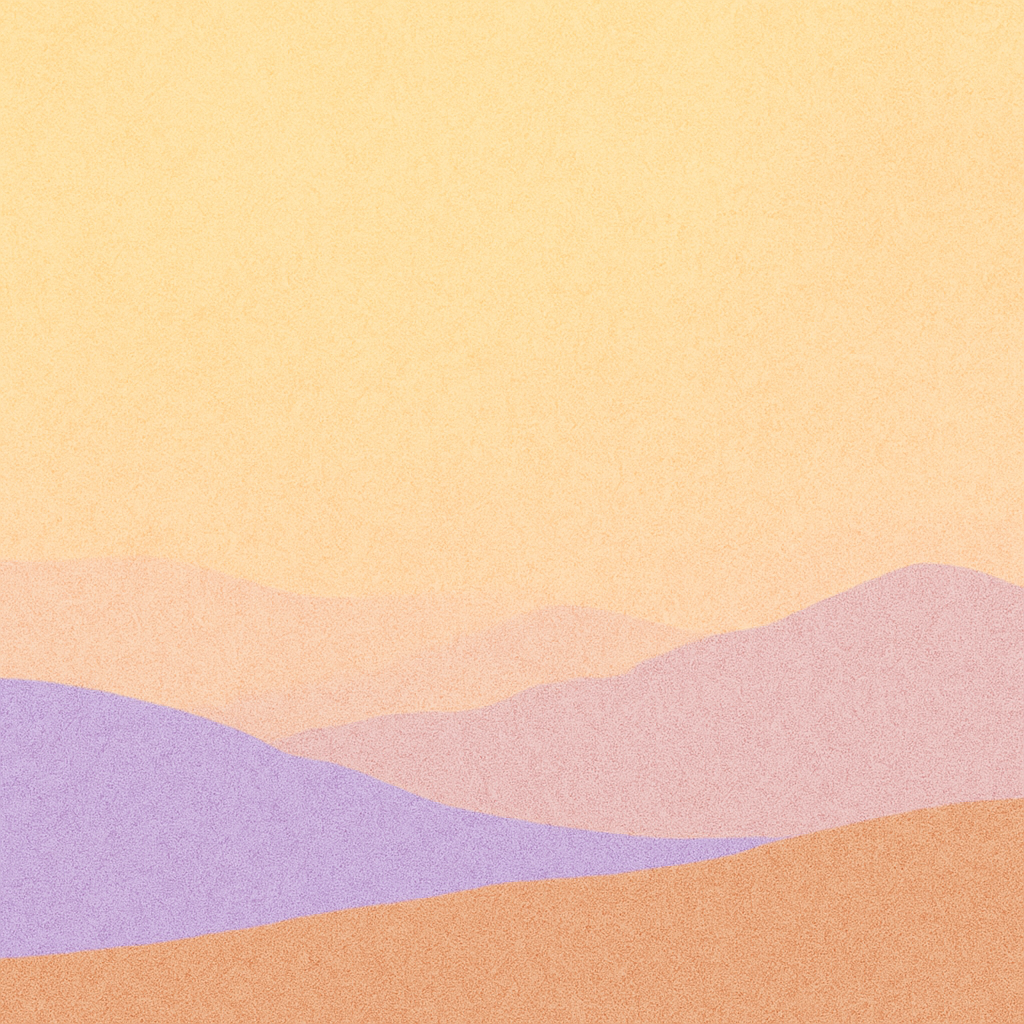
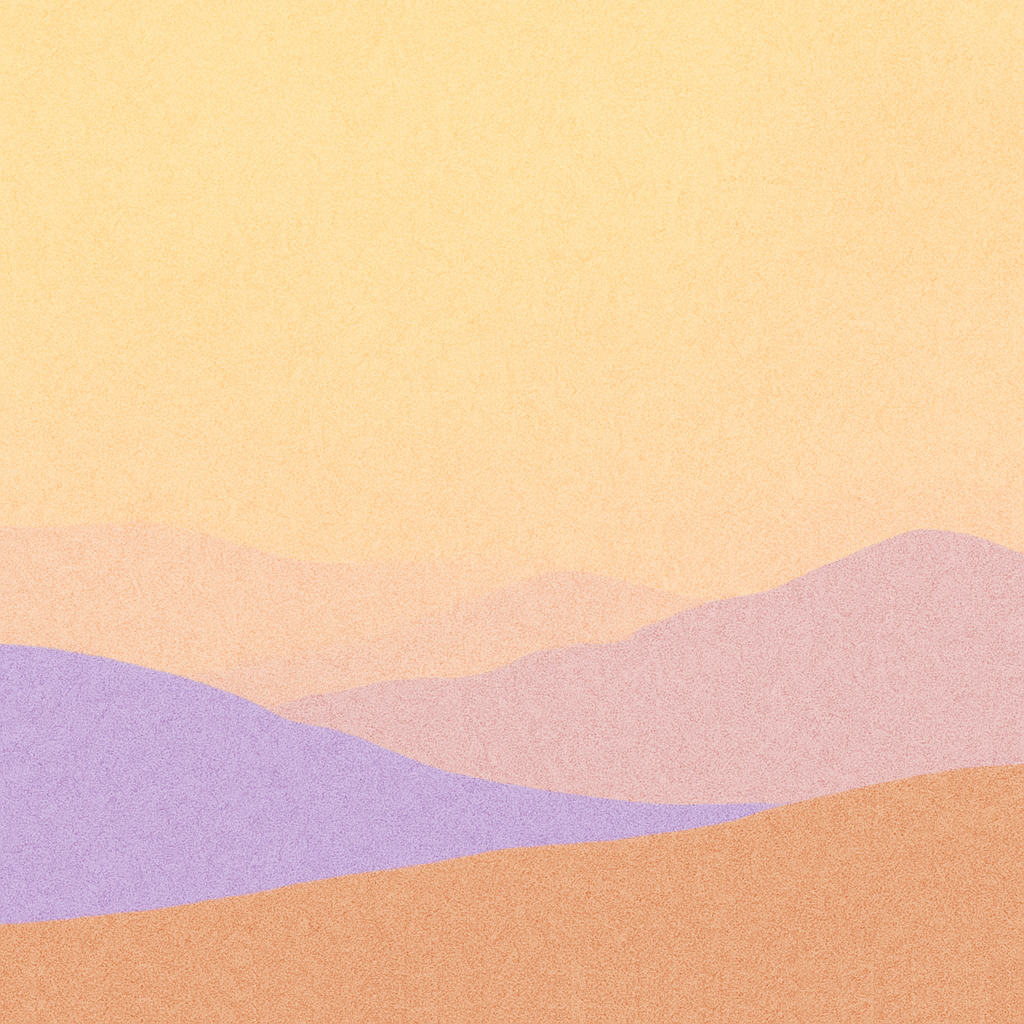
feat: mise à jour des images de background avec couleurs vives et amélioration des styles - Remplacement des images grid par des backgrounds colorés (jaune, violet, rose, orange) - Optimisation de la taille et positionnement des images internes (92% de taille) - Suppression de l'arrondi sur coins ba

Changed region(s): [[0.0, 0.5, 1.0, 0.9688], [0.7188, 0.6875, 0.75, 0.7188], [0.5312, 0.5625, 0.5625, 0.5938]]

diff --git a/src/components/features-one.tsx b/src/components/features-one.tsx
@@ -20,31 +20,123 @@ export default function Features() {
                         </div>
                     </div>
 
+                    <div className="mt-16">
+                        <div className="text-right">
+                            <h2 className="text-foreground text-4xl font-semibold">Every call structured your way — ready to act</h2>
+                            <p className="text-muted-foreground mb-12 mt-4 text-balance text-lg">Slice breaks each call transcription into building blocks you define—so you can review, validate, and move faster.</p>
+                        </div>
+                        <div className="bg-foreground/5 rounded-3xl p-6">
+                            <Image
+                                src="/images/tabless.png"
+                                alt="Task management interface"
+                                width={800}
+                                height={400}
+                                className="w-full h-auto rounded-xl"
+                            />
+                        </div>
+                    </div>
+
+                    <div className="mt-16">
+                        <h2 className="text-foreground text-4xl font-semibold">Every call structured your way — ready to act</h2>
+                        <p className="text-muted-foreground mb-12 mt-4 text-balance text-lg">Slice breaks each call transcription into building blocks you define—so you can review, validate, and move faster.</p>
+                        <div className="bg-foreground/5 rounded-3xl p-6">
+                            <Image
+                                src="/images/tabless.png"
+                                alt="Task management interface"
+                                width={800}
+                                height={400}
+                                className="w-full h-auto rounded-xl"
+                            />
+                        </div>
+                    </div>
+
                     <div className="border-foreground/10 relative mt-16 grid gap-12 border-b pb-12 [--radius:1rem] md:grid-cols-2">
                         <div>
                             <h3 className="text-foreground text-xl font-semibold">Find the right answer before even asking</h3>
                             <p className="text-muted-foreground my-4 text-lg">Slice brings you the most relevant docs and insights to answer clients&apos; questions.</p>
-                            <div className="aspect-video overflow-hidden bg-foreground/5 rounded-xl p-4">
+                            <div className="aspect-video overflow-hidden rounded-xl p-4 relative">
                                 <Image
-                                    src="/images/resourcess.png"
-                                    alt="Marketing campaigns interface"
-                                    width={400}
-                                    height={225}
-                                    className="w-full h-full object-cover rounded-lg"
+                                    src="/images/grid/jaune.png"
+                                    alt="Background interface"
+                                    width={600}
+                                    height={337}
+                                    className="w-full h-full object-cover absolute inset-0"
                                 />
+                                <div className="absolute bottom-0 right-0 w-11/12 h-11/12 z-10">
+                                    <Image
+                                        src="/images/resourcess.png"
+                                        alt="Marketing campaigns interface"
+                                        width={400}
+                                        height={225}
+                                        className="w-full h-full object-cover rounded-tl-lg rounded-br-none border-l border-t border-gray-300/30 shadow-lg opacity-95"
+                                    />
+                                </div>
                             </div>
                         </div>
                         <div>
                             <h3 className="text-foreground text-xl font-semibold">Assign and track internal work</h3>
                             <p className="text-muted-foreground my-4 text-lg">Slice sends the messages and follows up with internal teams, so you don&apos;t have to.</p>
-                            <div className="aspect-video overflow-hidden bg-foreground/5 rounded-xl p-4">
+                            <div className="aspect-video overflow-hidden rounded-xl p-4 relative">
                                 <Image
-                                    src="/images/steps.png"
-                                    alt="AI meeting scheduler interface"
-                                    width={400}
-                                    height={225}
-                                    className="w-full h-full object-cover rounded-lg"
+                                    src="/images/grid/violet.png"
+                                    alt="Background interface"
+                                    width={600}
+                                    height={337}
+                                    className="w-full h-full object-cover absolute inset-0"
                                 />
+                                <div className="absolute bottom-0 right-0 w-11/12 h-11/12 z-10">
+                                    <Image
+                                        src="/images/steps.png"
+                                        alt="AI meeting scheduler interface"
+                                        width={400}
+                                        height={225}
+                                        className="w-full h-full object-cover rounded-tl-lg rounded-br-none border-l border-t border-gray-300/30 shadow-lg opacity-95"
+                                    />
+                                </div>
+                            </div>
+                        </div>
+                        <div>
+                            <h3 className="text-foreground text-xl font-semibold">Find the right answer before even asking</h3>
+                            <p className="text-muted-foreground my-4 text-lg">Slice brings you the most relevant docs and insights to answer clients&apos; questions.</p>
+                            <div className="aspect-video overflow-hidden rounded-xl p-4 relative">
+                                <Image
+                                    src="/images/grid/rose.png"
+                                    alt="Background interface"
+                                    width={600}
+                                    height={337}
+                                    className="w-full h-full object-cover absolute inset-0"
+                                />
+                                <div className="absolute bottom-0 right-0 w-11/12 h-11/12 z-10">
+                                    <Image
+                                        src="/images/resourcess.png"
+                                        alt="Marketing campaigns interface"
+                                        width={400}
+                                        height={225}
+                                        className="w-full h-full object-cover rounded-tl-lg rounded-br-none border-l border-t border-gray-300/30 shadow-lg opacity-95"
+                                    />
+                                </div>
+                            </div>
+                        </div>
+                        <div>
+                            <h3 className="text-foreground text-xl font-semibold">Assign and track internal work</h3>
+                            <p className="text-muted-foreground my-4 text-lg">Slice sends the messages and follows up with internal teams, so you don&apos;t have to.</p>
+                            <div className="aspect-video overflow-hidden rounded-xl p-4 relative">
+                                <Image
+                                    src="/images/grid/orange.png"
+                                    alt="Background interface"
+                                    width={600}
+                                    height={337}
+                                    className="w-full h-full object-cover absolute inset-0"
+                                />
+                                <div className="absolute bottom-0 right-0 w-11/12 h-11/12 z-10">
+                                    <Image
+                                        src="/images/steps.png"
+                                        alt="AI meeting scheduler interface"
+                                        width={400}
+                                        height={225}
+                                        className="w-full h-full object-cover rounded-tl-lg rounded-br-none border-l border-t border-gray-300/30 shadow-lg opacity-95"
+                                    />
+                                </div>
                             </div>
                         </div>
                     </div>

diff --git a/src/components/features-two.tsx b/src/components/features-two.tsx
@@ -1,0 +1,45 @@
+import { Card } from '@/components/ui/card'
+
+export default function FeaturesTwo() {
+    return (
+        <section>
+            <div className="bg-muted/50 py-24">
+                <div className="mx-auto max-w-5xl px-6">
+                    <div>
+                        <h2 className="text-foreground text-4xl font-semibold">Effortless Task Management</h2>
+                        <p className="text-muted-foreground mb-12 mt-4 text-balance text-lg">Automate your tasks and workflows by connecting your favorite tools like Notion, Todoist, and more. AI-powered scheduling helps you stay on track and adapt to changing priorities.</p>
+                    </div>
+                    <div className="mt-8 grid gap-4 sm:grid-cols-2 md:mt-16 md:grid-cols-3">
+                        <div className="space-y-4">
+                            <Card className="aspect-video overflow-hidden px-6 bg-muted/30">
+                                <Card className="h-full translate-y-6" />
+                            </Card>
+                            <div className="sm:max-w-sm">
+                                <h3 className="text-foreground text-xl font-semibold">Marketing Campaigns</h3>
+                                <p className="text-muted-foreground my-4 text-lg">Effortlessly book and manage your meetings. Stay on top of your schedule.</p>
+                            </div>
+                        </div>
+                        <div className="space-y-4">
+                            <Card className="aspect-video overflow-hidden p-6 bg-muted/30">
+                                <Card className="h-full" />
+                            </Card>
+                            <div className="sm:max-w-sm">
+                                <h3 className="text-foreground text-xl font-semibold">AI Meeting Scheduler</h3>
+                                <p className="text-muted-foreground my-4 text-lg">Effortlessly book and manage your meetings. Stay on top of your schedule.</p>
+                            </div>
+                        </div>
+                        <div className="space-y-4">
+                            <Card className="aspect-video overflow-hidden bg-muted/30">
+                                <Card className="translate-y-6 h-full" />
+                            </Card>
+                            <div className="sm:max-w-sm">
+                                <h3 className="text-foreground text-xl font-semibold">AI Meeting Scheduler</h3>
+                                <p className="text-muted-foreground my-4 text-lg">Effortlessly book and manage your meetings. Stay on top of your schedule.</p>
+                            </div>
+                        </div>
+                    </div>
+                </div>
+            </div>
+        </section>
+    )
+}

diff --git a/src/components/stagewise-provider.tsx b/src/components/stagewise-provider.tsx
@@ -1,0 +1,39 @@
+'use client'
+
+import { useEffect } from 'react'
+
+export function StagewiseProvider() {
+  useEffect(() => {
+    // Seulement en mode développement et côté client
+    if (process.env.NODE_ENV === 'development' && typeof window !== 'undefined') {
+      const loadStagewise = async () => {
+        try {
+          const { StagewiseToolbar } = await import('@stagewise/toolbar-next')
+          const { ReactPlugin } = await import('@stagewise-plugins/react')
+          
+          // Créer un div container pour stagewise
+          const container = document.createElement('div')
+          container.id = 'stagewise-toolbar-container'
+          document.body.appendChild(container)
+          
+          // Utiliser React.createElement pour éviter les conflits JSX
+          const React = await import('react')
+          const ReactDOM = await import('react-dom/client')
+          
+          const toolbar = React.createElement(StagewiseToolbar, {
+            config: { plugins: [ReactPlugin] }
+          })
+          
+          const root = ReactDOM.createRoot(container)
+          root.render(toolbar)
+        } catch (error) {
+          console.warn('Stagewise toolbar failed to load:', error)
+        }
+      }
+      
+      loadStagewise()
+    }
+  }, [])
+
+  return null
+} 

diff --git a/src/app/layout.tsx b/src/app/layout.tsx
@@ -2,6 +2,7 @@ import type { Metadata } from "next";
 import { Geist, Geist_Mono, Plus_Jakarta_Sans } from "next/font/google";
 import "./globals.css";
 import { ClientToaster } from "@/components/client-toaster";
+import { StagewiseProvider } from "@/components/stagewise-provider";
 
 const geistSans = Geist({
   variable: "--font-geist-sans",
@@ -33,9 +34,11 @@ export default function RootLayout({
     <html lang="en">
       <body
         className={`${geistSans.variable} ${geistMono.variable} ${plusJakartaSans.variable} antialiased`}
+        suppressHydrationWarning={true}
       >
         {children}
         <ClientToaster />
+        <StagewiseProvider />
       </body>
     </html>
   );

diff --git a/src/types/stagewise.d.ts b/src/types/stagewise.d.ts
@@ -1,0 +1,12 @@
+/* eslint-disable @typescript-eslint/no-explicit-any */
+declare module '@stagewise/toolbar-next' {
+  export const StagewiseToolbar: React.ComponentType<{
+    config?: {
+      plugins?: any[]
+    }
+  }>
+}
+
+declare module '@stagewise-plugins/react' {
+  export const ReactPlugin: any
+} 
